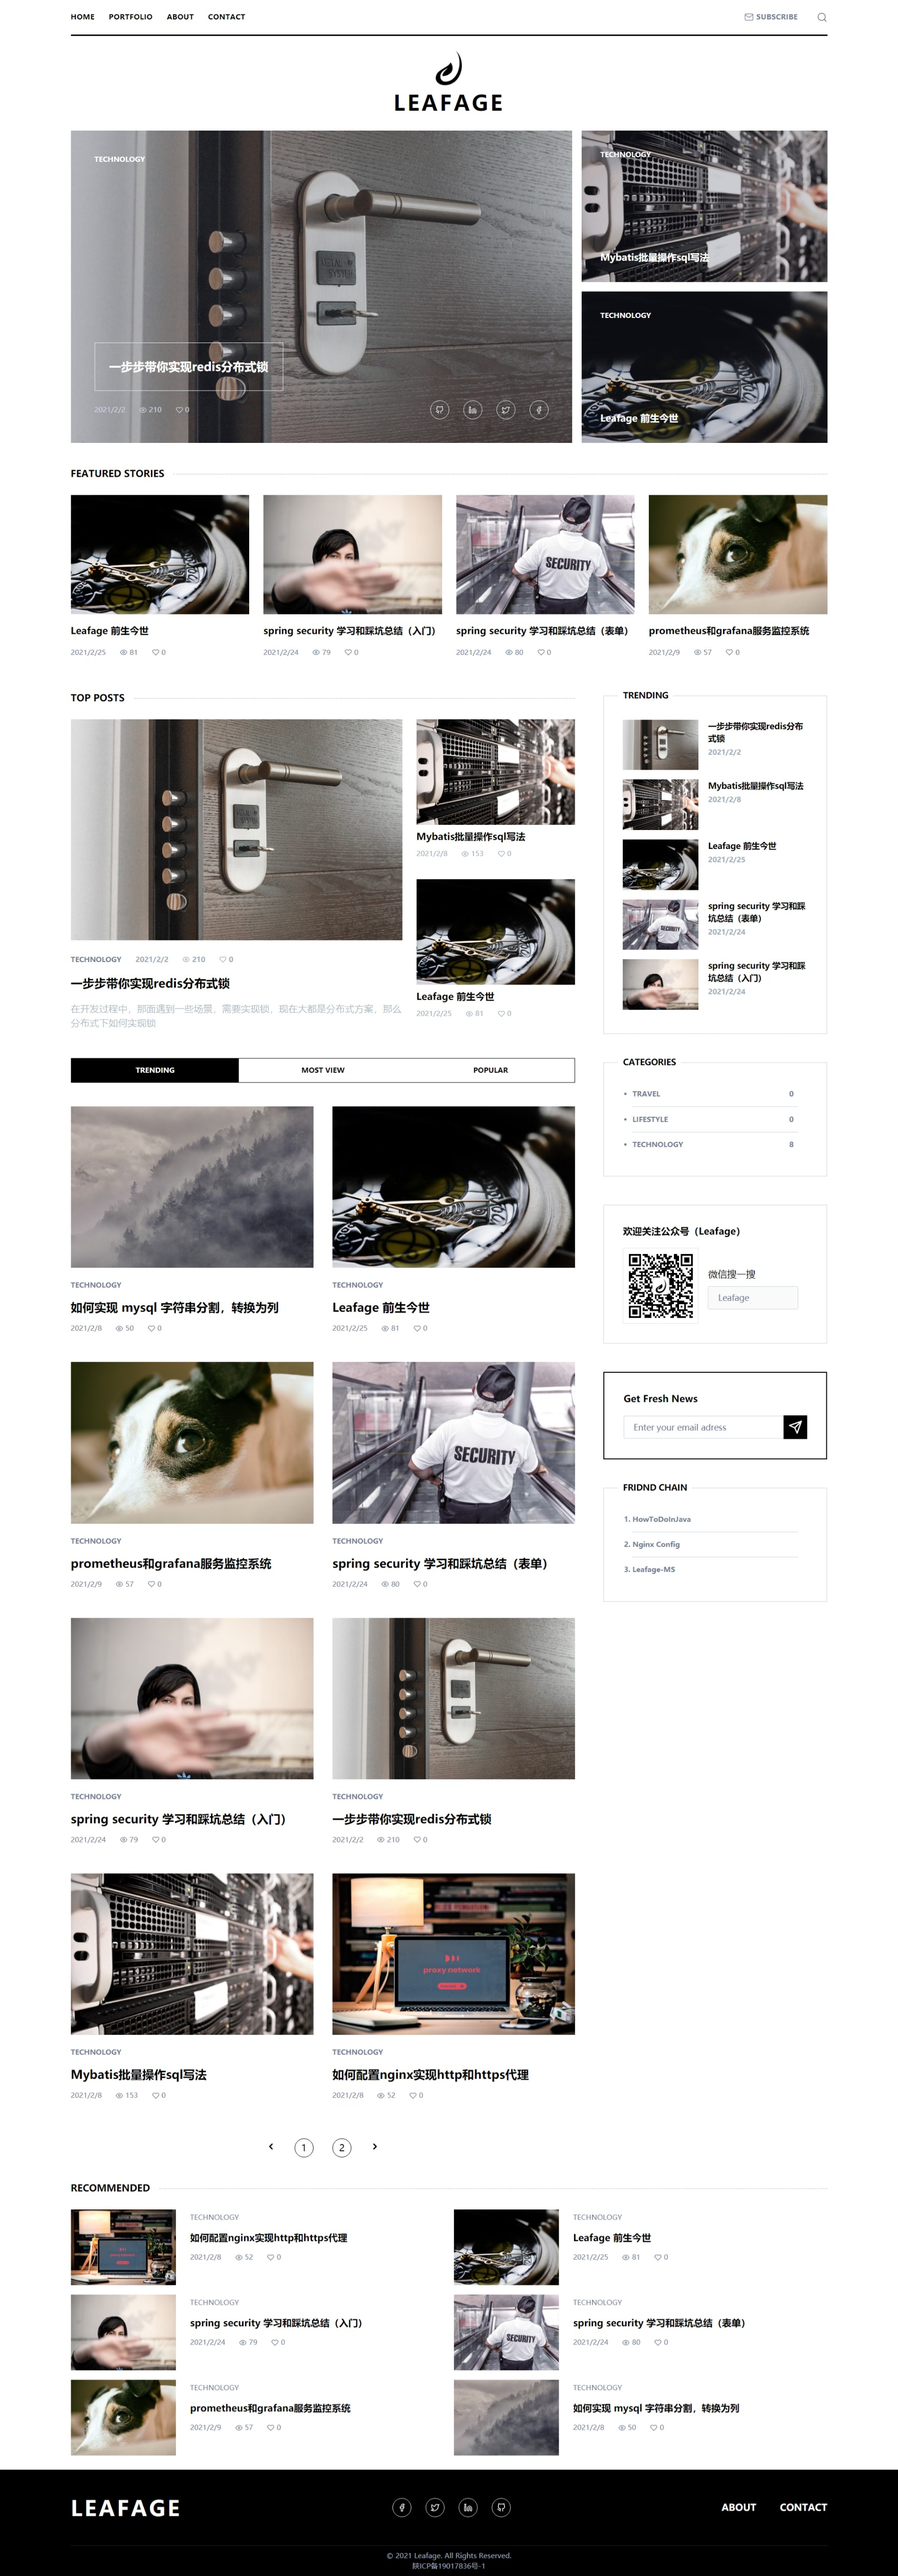
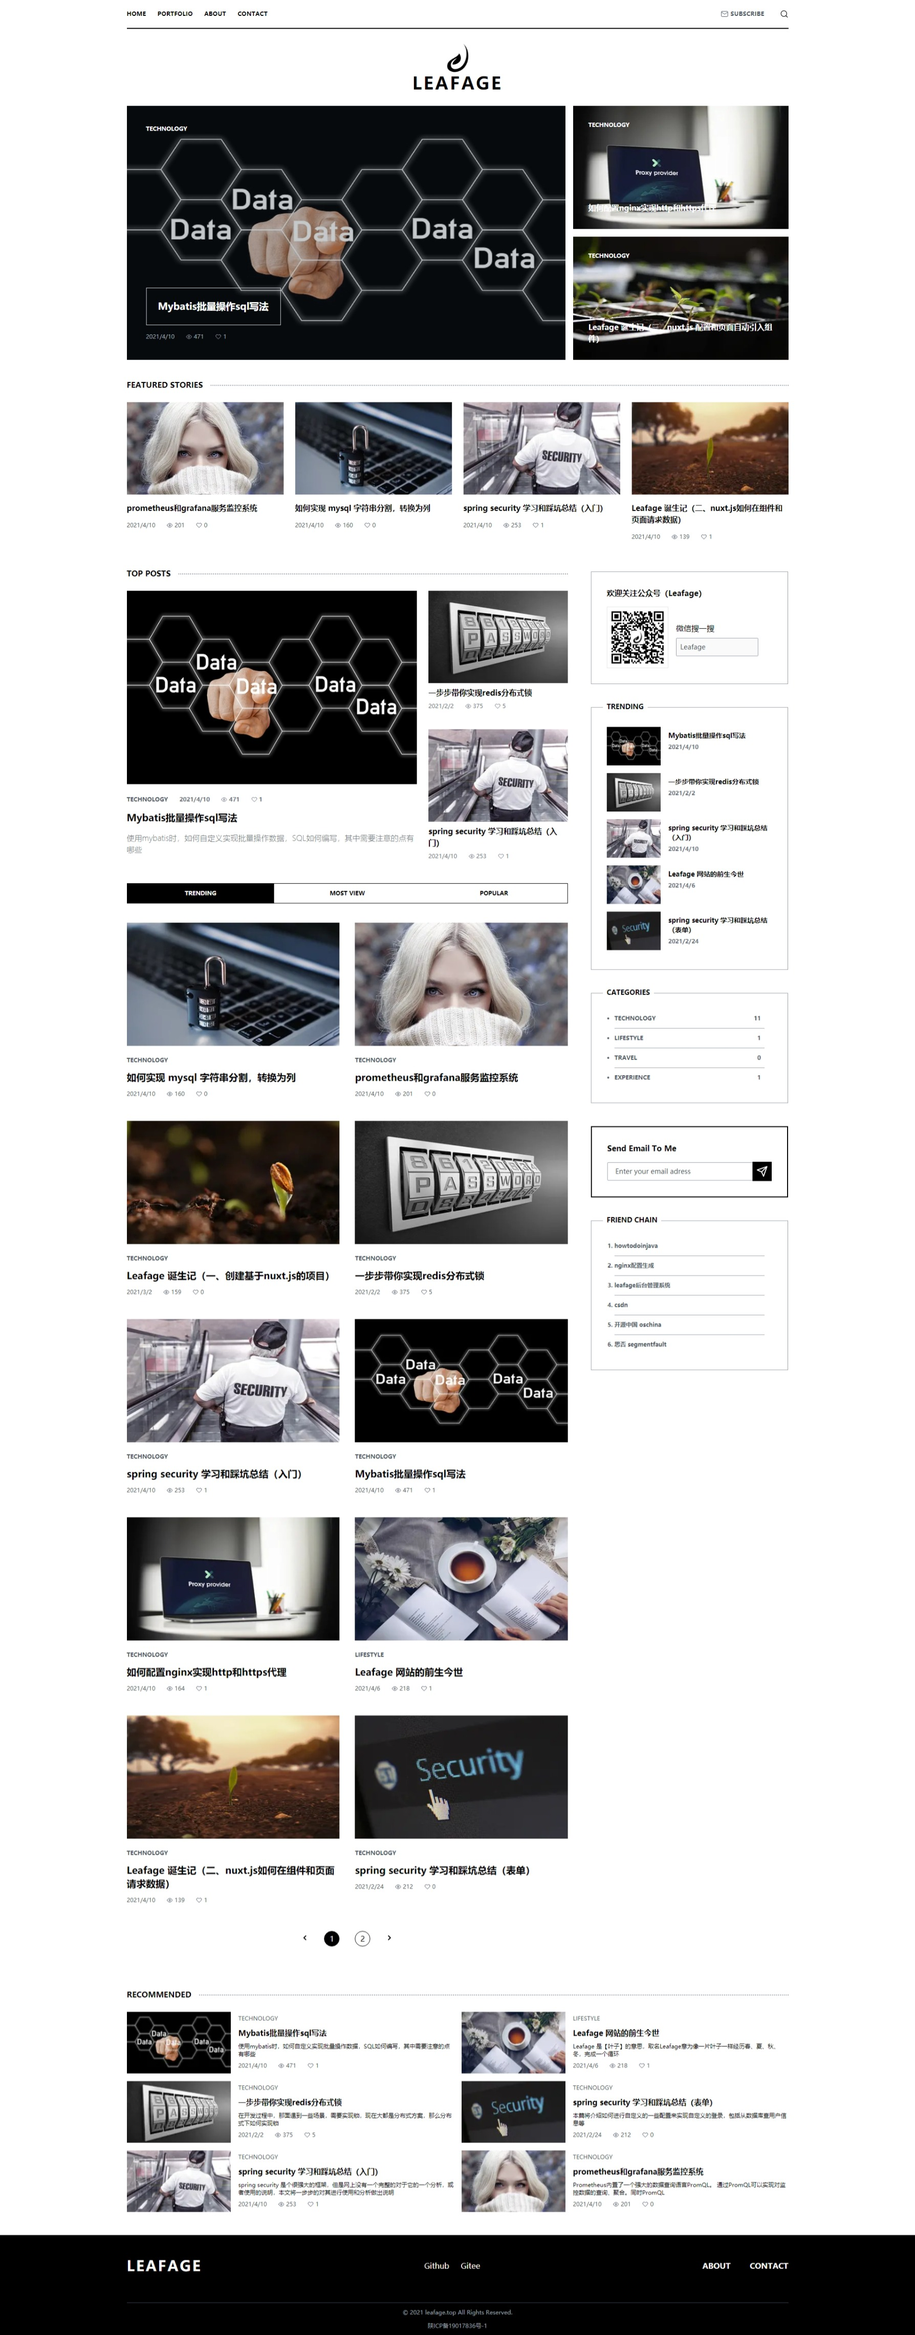
修改README.md和CHANGELOG.md

diff --git a/pages/posts/detail/_slug.vue b/pages/posts/detail/_slug.vue
@@ -51,14 +51,14 @@
             </li>
           </ul>
           <h2 class="my-3 md:text-3xl font-extrabold" v-text="data.title"></h2>
-          <div class="w-full h-full my-8">
+          <figure class="w-full h-full my-8">
             <img :src="data.cover" :alt="data.title" class="w-full" />
-          </div>
-          <p
-            class="my-4 leading-relaxed tracking-wide prose-sm md:prose min-w-full"
+          </figure>
+          <div
+            class="prose-sm md:prose min-w-full"
             v-html="rendered"
-          ></p>
-          <div class="bg-gray-200 my-12 p-8">
+          ></div>
+          <div class="bg-gray-200 my-8 p-8">
             <ul
               class="grid grid-flow-row grid-rows-2 grid-cols-1 md:grid-rows-1 md:grid-cols-2 gap-4 text-xs font-bold"
             >
@@ -109,8 +109,9 @@
           </div>
         </article>
         <div class="my-12">
-          <div class="uppercase font-extrabold">
-            <h3>Top Posts</h3>
+          <div class="flex divide-y-2 divide-gray-400 divide-dotted">
+            <h3 class="uppercase font-extrabold">Top Posts</h3>
+            <span class="flex-1 w-full ml-4 mt-3"></span>
           </div>
           <div class="my-6">
             <div

diff --git a/components/sections/Recommend.vue b/components/sections/Recommend.vue
@@ -1,8 +1,8 @@
 <template>
   <section class="container mx-auto px-2 md:px-12 lg:px-16 xl:px-20 my-12">
     <div class="flex divide-y-2 divide-gray-400 divide-dotted">
-      <h3 class="uppercase font-extrabold -mt-2">Recommended</h3>
-      <span class="flex-1 w-full ml-4 mt-1"></span>
+      <h3 class="uppercase font-extrabold">Recommended</h3>
+      <span class="flex-1 w-full ml-4 mt-3"></span>
     </div>
     <div
       class="grid grid-flow-col grid-rows-6 grid-cols-1 md:grid-rows-3 md:grid-cols-2 gap-4 my-6"

diff --git a/components/sections/Featured.vue b/components/sections/Featured.vue
@@ -1,8 +1,8 @@
 <template>
   <section class="container mx-auto px-2 md:px-12 lg:px-16 xl:px-20 my-12">
     <div class="flex divide-y-2 divide-gray-400 divide-dotted">
-      <h3 class="uppercase font-extrabold -mt-2">Featured Stories</h3>
-      <span class="flex-1 w-full ml-4 mt-1"></span>
+      <h3 class="uppercase font-extrabold">Featured Posts</h3>
+      <span class="flex-1 w-full ml-4 mt-3"></span>
     </div>
     <!--sec-title end-->
     <div class="my-6">

diff --git a/components/global/TopPosts.vue b/components/global/TopPosts.vue
@@ -2,8 +2,8 @@
   <div>
     <div class="mb-12">
       <div class="flex divide-y-2 divide-gray-400 divide-dotted">
-        <h3 class="uppercase font-extrabold -mt-2">Top Posts</h3>
-        <span class="flex-1 w-full ml-4 mt-1"></span>
+        <h3 class="uppercase font-extrabold -mt-3">Top Posts</h3>
+        <span class="flex-1 w-full ml-4"></span>
       </div>
       <div class="my-6">
         <div

diff --git a/components/sections/SideBar.vue b/components/sections/SideBar.vue
@@ -1,5 +1,5 @@
 <template>
-  <div class="lg:flex lg:justify-end w-full">
+  <aside class="lg:flex lg:justify-end w-full">
     <div class="lg:ml-12">
       <div class="border border-solid border-gray-400 p-8">
         <h3 class="font-extrabold">欢迎关注公众号（Leafage）</h3>
@@ -167,7 +167,7 @@
         </ul>
       </div>
     </div>
-  </div>
+  </aside>
 </template>
 
 

diff --git a/plugins/markdown.js b/plugins/markdown.js
@@ -37,7 +37,7 @@ const md = new MarkdownIt({
       try {
         return (
           '<pre class="hljs"><code>' +
-          hljs.highlight(lang, str, true).value +
+          hljs.highlight(str, { language: lang, ignoreIllegals: true }).value +
           "</code></pre>"
         );
       } catch (__) { }

diff --git a/CHANGELOG.md b/CHANGELOG.md
@@ -6,6 +6,11 @@
 
 ## 更新记录
 
+2021-04-10: 
+  1. 高亮样式替换为ir-black；
+  2. typography修改为使用tailwindcss/typography, 移除github-markdown-css;
+  3. 删除@nuxt/markdown-it以及插件，自定义markdown-it和highlight.js进行代码高亮；
+
 2021-04-06: 
 - 优化: 
   1. 小屏下hero.vue组件title显示位置；
